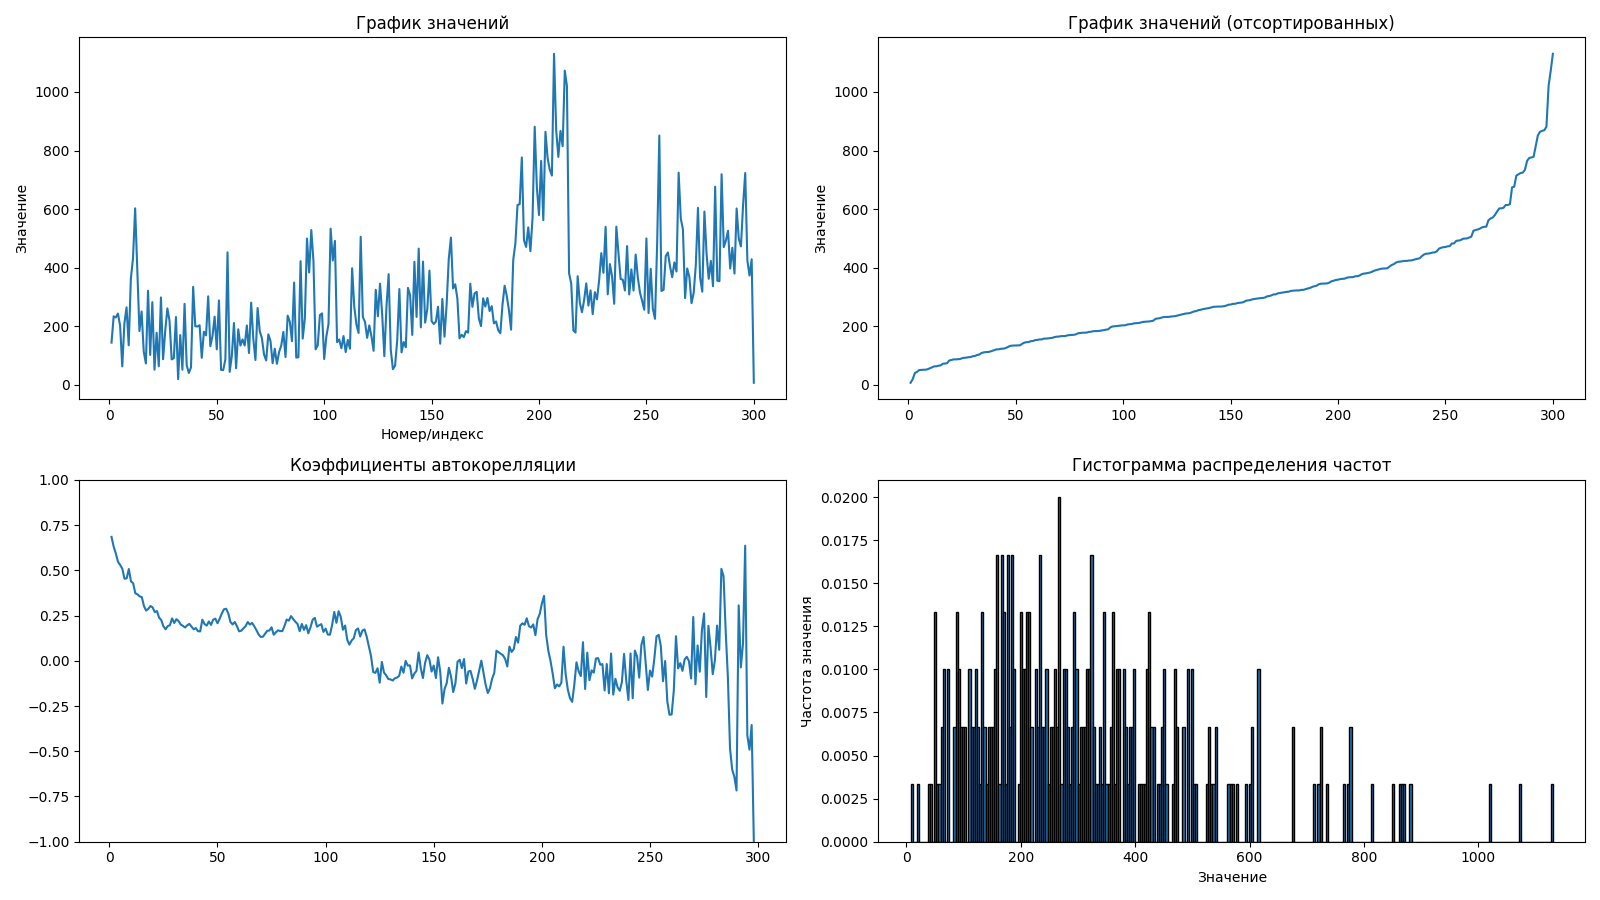
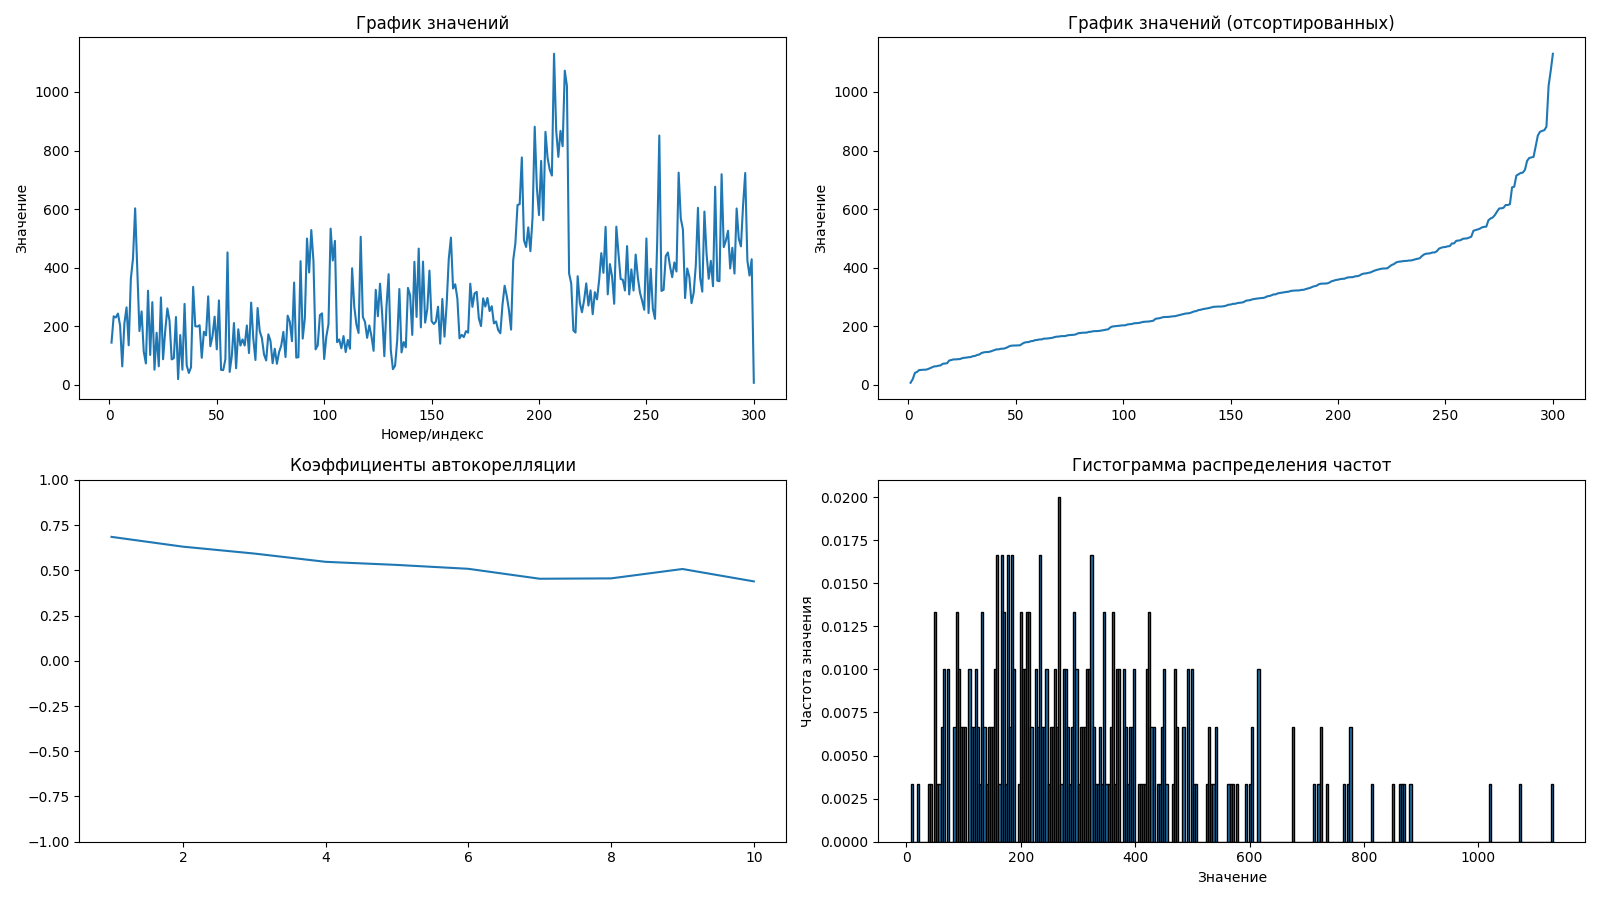
limit to 10

diff --git a/modeling/lab1/solve.py b/modeling/lab1/solve.py
@@ -176,9 +176,11 @@ def draw_value_chart(data: list[float]):
     axs[0, 1].plot(range(1, length + 1), sorted_data)
     axs[0, 1].set_ylabel("Значение")
 
+    limit = length if length != 300 else 12
+
     autocorrelation_coefficients = [
         calc_autocorrelation_coefficient(data, i)
-        for i in range(1, length - 1)
+        for i in range(1, limit - 1)
     ]
 
     axs[1, 0].set_ylim([-1, 1])
